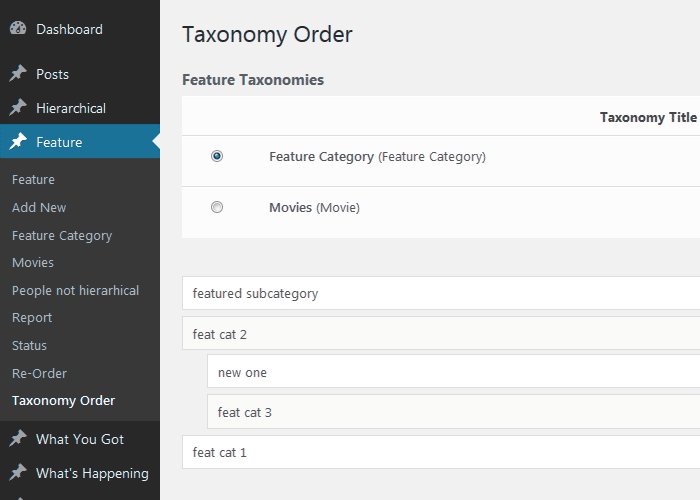
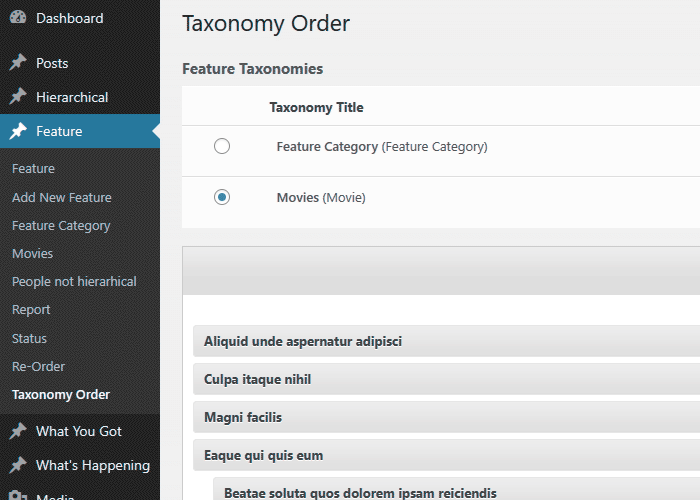
updates: Category Order and Taxonomy Terms Order

diff --git a/wp-content/plugins/taxonomy-terms-order/css/to.css b/wp-content/plugins/taxonomy-terms-order/css/to.css
@@ -7,12 +7,27 @@ h2.subtitle {font-size: 15px; font-weight: bold; padding: 20px 0 10px 0}
 #order-terms ul {list-style: none;}
 #order-terms ul.children {margin-left: 25px} 
 
-#order-terms #tto_sortable li > .item { padding: 2px 0px; margin: 4px 0px;  border: 1px solid #DDDDDD; cursor: move; -moz-border-radius:6px; background-color: #f9f9f9; clear: both}
-#order-terms #tto_sortable li:nth-child(2n+1) > .item {    background-color: #fff !important;}
-#order-terms #tto_sortable li span.title { display: inline-block; padding: 5px 10px; color:#555; font-size:13px;}
-#order-terms #tto_sortable li span.actions {float: right; padding: 5px 10px;}
-#order-terms #tto_sortable li span.actions a {text-decoration: none}
-#order-terms #tto_sortable li.placeholder{border: dashed 2px #ccc;height:30px; background-color: #FFF;}
+#order-terms #tto_sortable li > .item { border: 1px solid #E6E6E6;height: auto;line-height: 27px; padding-left: 10px;position: relative; text-shadow: 0 1px 0 #FFFFFF;width: auto;word-wrap: break-word;cursor: move;background: url("../images/gray-grad.png") repeat-x scroll left top #DFDFDF;-webkit-border-radius: 4px;-moz-border-radius: 4px;border-radius: 4px;transition:All 0.5s ease;-webkit-transition:All 0.5s ease;-moz-transition:All 0.5s ease;-o-transition:All 0.5s ease;}
+#order-terms #tto_sortable li > .item span { display: inline-block; line-height: 20px; padding: 5px 0; white-space: nowrap; font-weight: bold; cursor: pointer;}
+#order-terms #tto_sortable li > .item .options {float: right; padding: 0 10px 0 10px; }
+#order-terms #tto_sortable li > .item .options a {text-decoration: none; color: #3c434a;}
+#order-terms #tto_sortable li > .item .options a:hover {color: #2271b1;}
+#order-terms #tto_sortable li > .item .options span {font-weight: normal}
+#order-terms ul.children {margin-left: 20px} 
+#order-terms .term_type_li ul {margin-top: 6px}
+#order-terms #nav-menu-header {background: url("../images/gray-grad.png") repeat-x scroll left top #DFDFDF; -moz-border-radius-topleft: 6px; -moz-border-radius-topright: 6px;border-width: 1px 1px 0;border-color: #CCCCCC;border-style: solid; margin-bottom: 0px}
+#order-terms #nav-menu-header .major-publishing-actions {clear: both;padding: 5px 0px;}
+#order-terms #nav-menu-header .actions, #order-terms #nav-menu-footer .actions {padding: 0px; margin: 2px 0px; position: relative}
+.actions .toggle_thumbnails {margin-right: 30px}
+#order-terms #nav-menu-header .img_spacer {width: 18px; height: 18px;}
+#order-terms #nav-menu-footer {background: url("../images/gray-grad.png") repeat-x scroll left top #DFDFDF; -moz-border-radius-bottomleft: 6px; -moz-border-radius-bottomright: 6px;border-width: 0 1px 1px 1px;border-color: #CCCCCC;border-style: solid;}
+#order-terms #nav-menu-footer .major-publishing-actions {clear: both;padding: 5px 0px;} 
+#order-terms #nav-menu-footer .submit {padding: 0px;}
+
+#order-terms .ui-sortable-placeholder{border-color:#bbb;background-color:#FCFCFC; height:32px; background-image: none; -moz-border-radius: 6px 6px 6px 6px; border: 3px dashed #E6E6E6; -webkit-border-radius: 4px;-moz-border-radius: 4px;border-radius: 4px; box-sizing: border-box;}
+#order-terms .ui-sortable-helper{filter:alpha(opacity=75); /* for internet explorer */opacity: 0.75; /* CSS3 standard */-moz-opacity:0.75; /* for older gecko browsers */-khtml-opacity: 0.75; /* for older webkit browsers */}
+
+#order-terms #post-body {background: none repeat scroll 0 0 #FFFFFF;border-width: 0 1px 0 1px;border-color: #CCCCCC;border-style: solid; padding: 10px;}
 
 .wp-list-taxonomy {width: 100%}
 .wp-list-taxonomy thead tr th{padding: 10px 0; text-align: left;}

diff --git a/wp-content/plugins/taxonomy-terms-order/include/class.interface.php b/wp-content/plugins/taxonomy-terms-order/include/class.interface.php
@@ -143,6 +143,25 @@
                                     ?>
 
                         <div id="order-terms">
+                        
+                            <div id="nav-menu-header">
+                                <div class="major-publishing-actions">
+
+                                        
+                                        <div class="alignright actions">
+                                            <p class="actions">
+              
+                                                <span class="img_spacer">&nbsp;
+                                                    <img alt="" src="<?php echo TOURL ?>/images/wpspin_light.gif" class="waiting pto_ajax_loading" style="display: none;">
+                                                </span>
+                                                <a href="javascript:;" class="save-order button-primary"><?php _e('Update', 'atto') ?></a>
+                                            </p>
+                                        </div>
+                                        
+                                        <div class="clear"></div>
+
+                                </div><!-- END .major-publishing-actions -->
+                            </div><!-- END #nav-menu-header -->
 
                             <div id="post-body">                    
                                 
@@ -155,11 +174,17 @@
                                     <div class="clear"></div>
                             </div>
                             
-                            <div class="alignleft actions">
-                                <p class="submit">
-                                    <a href="javascript:;" class="save-order button-primary"><?php _e( "Update", 'taxonomy-terms-order' ) ?></a>
-                                </p>
-                            </div>
+                            <div id="nav-menu-footer">
+                                <div class="major-publishing-actions">
+                                        <div class="alignright actions">
+                                            <img alt="" src="<?php echo TOURL ?>/images/wpspin_light.gif" class="waiting pto_ajax_loading" style="display: none;">
+                                            <a href="javascript:;" class="save-order button-primary"><?php _e('Update', 'atto') ?></a>
+                                        </div>
+                                        
+                                        <div class="clear"></div>
+
+                                </div><!-- END .major-publishing-actions -->
+                            </div><!-- END #nav-menu-header -->
                             
                         </div> 
 
@@ -178,6 +203,9 @@
                                     });
                                   
                                 jQuery(".save-order").bind( "click", function() {
+                                        
+                                        jQuery(this).parent().find('img').show();
+                                    
                                         var mySortable = new Array();
                                         jQuery(".sortable").each(  function(){
                                             
@@ -204,6 +232,7 @@
                                         jQuery.post( ajaxurl, { action:'update-taxonomy-order', order: serialize_data, nonce : '<?php echo wp_create_nonce( 'update-taxonomy-order' ); ?>' }, function() {
                                             jQuery("#ajax-response").html('<div class="message updated fade"><p><?php esc_html_e ( "Items Order Updated", 'taxonomy-terms-order' ) ?></p></div>');
                                             jQuery("#ajax-response div").delay(3000).hide("slow");
+                                            jQuery('img.pto_ajax_loading').hide();
                                         });
                                     });
                                 

diff --git a/wp-content/plugins/taxonomy-terms-order/include/class.tto.php b/wp-content/plugins/taxonomy-terms-order/include/class.tto.php
@@ -12,18 +12,16 @@
             */
             function __construct() 
                 {
-                    add_action('admin_print_scripts',   array ( $this,  'admin_print_scripts' ) );
-                    add_action('admin_print_styles',    array ( $this,  'admin_print_styles' ) );
-                    add_action('admin_menu',            array ( $this,  'admin_menu' ), 99);
-                    add_filter('terms_clauses',         array ( $this,  'apply_order_filter' ), 10, 3);
-                    add_filter('get_terms_orderby',     array ( $this,  'get_terms_orderby' ), 1, 2);
+                    add_action('admin_print_scripts',               array ( $this,  'admin_print_scripts' ) );
+                    add_action('admin_print_styles',                array ( $this,  'admin_print_styles' ) );
+                    add_action('admin_menu',                        array ( $this,  'admin_menu' ), 99);
+                    add_filter('terms_clauses',                     array ( $this,  'apply_order_filter' ), 10, 3);
+                    add_filter('get_terms_orderby',                 array ( $this,  'get_terms_orderby' ), 1, 2);
                     
                     add_action( 'wp_ajax_update-taxonomy-order',    array ( $this, 'saveAjaxOrder' ) );
                     
                     if ( is_admin() )
-                        TTO_functions::check_table_column();
-                        
-                    
+                        TTO_functions::check_table_column();                    
                 }
                 
             
@@ -33,14 +31,10 @@
             */
             function admin_print_scripts()
                 {
-                    wp_enqueue_script('jquery');
-                    
+                    wp_enqueue_script('jquery');                    
                     wp_enqueue_script('jquery-ui-sortable');
-                    
-                    $myJsFile = TOURL . '/js/to-javascript.js';
-                    wp_register_script('to-javascript', $myJsFile);
+                    wp_register_script('to-javascript', TOURL . '/js/to-javascript.js', array(), TTO_VERSION );
                     wp_enqueue_script( 'to-javascript');
-                          
                 }
                 
             
@@ -50,8 +44,7 @@
             */
             function admin_print_styles()
                 {
-                    $myCssFile = TOURL . '/css/to.css';
-                    wp_register_style('to.css', $myCssFile);
+                    wp_register_style('to.css', TOURL . '/css/to.css', array(), TTO_VERSION );
                     wp_enqueue_style( 'to.css');
                 }
                 

diff --git a/wp-content/plugins/taxonomy-terms-order/include/class.terms_walker.php b/wp-content/plugins/taxonomy-terms-order/include/class.terms_walker.php
@@ -37,7 +37,7 @@
                     
                     $term_link  =   isset ( $currentScreen->post_type ) ?   get_edit_term_link( $term, $term->taxonomy, $currentScreen->post_type ) :   get_edit_term_link( $term );
                     
-                    $output .= $indent . '<li class="term_type_li" id="item_'.$term->term_id.'"><div class="item"><span class="title">'.apply_filters( 'to/term_title', $term->name, $term ).' </span> <span class="actions"><a href="' . $term_link .'"><span class="dashicons dashicons-edit"></span></a></span></div>';
+                    $output .= $indent . '<li class="term_type_li" id="item_'.$term->term_id.'"><div class="item"><span class="title">'.apply_filters( 'to/term_title', $term->name, $term ).' </span> <span class="options ui-sortable-handle"><a href="' . $term_link .'"><span class="dashicons dashicons-edit"></span></a></span></div>';
                 }
 
 

diff --git a/wp-content/plugins/taxonomy-terms-order/taxonomy-terms-order.php b/wp-content/plugins/taxonomy-terms-order/taxonomy-terms-order.php
@@ -3,7 +3,7 @@
 * Plugin Name: Category Order and Taxonomy Terms Order
 * Plugin URI: http://www.nsp-code.com
 * Description: Order Categories and all custom taxonomies terms (hierarchically) and child terms using a Drag and Drop Sortable javascript capability. 
-* Version: 1.8.8
+* Version: 1.9
 * Author: Nsp-Code
 * Author URI: https://www.nsp-code.com
 * Author Email: contact@nsp-code.com
@@ -14,6 +14,8 @@
 
     define('TOPATH',    plugin_dir_path(__FILE__));
     define('TOURL',     plugins_url('', __FILE__));
+    
+    define('TTO_VERSION',          '1.9');
     
     include_once    (   TOPATH . '/include/class.tto.php'   );
     include_once    (   TOPATH . '/include/class.functions.php'   );
